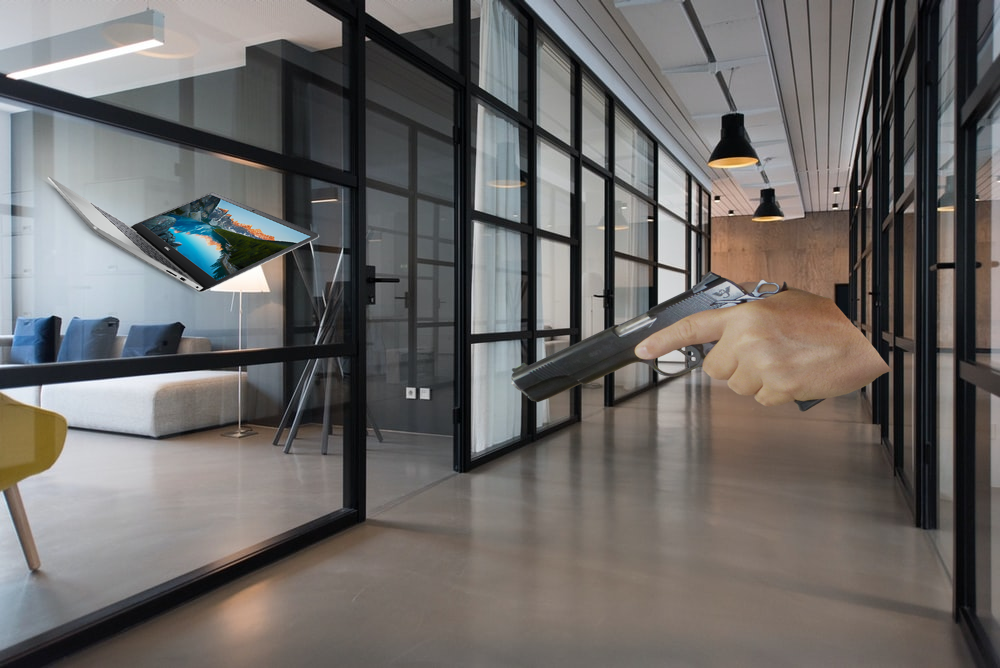
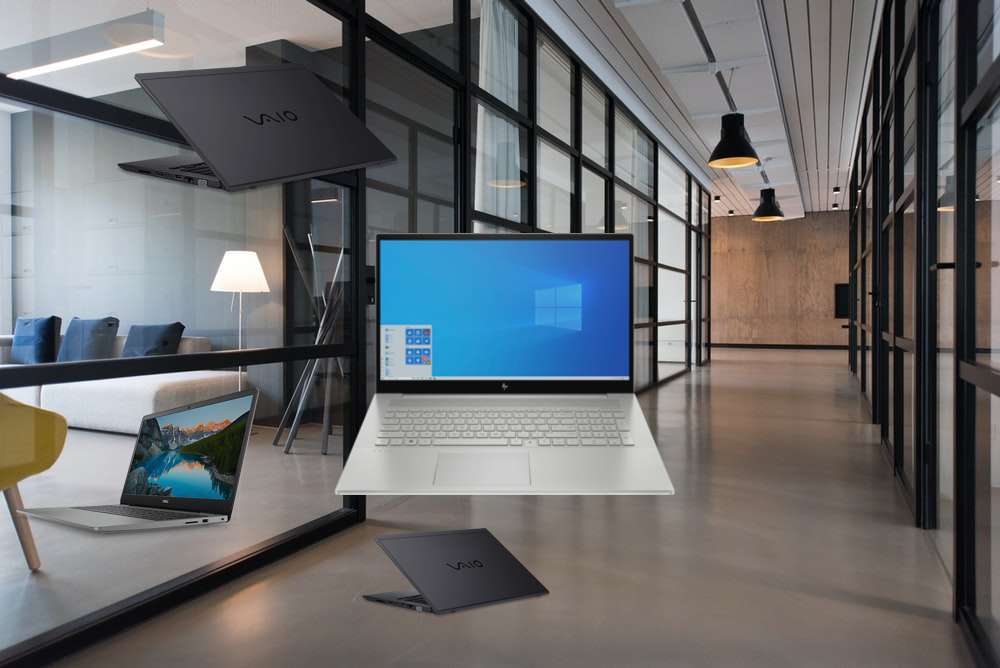
bounding box support

diff --git a/index.py b/index.py
@@ -5,12 +5,14 @@ import os
 import PIL
 from PIL import Image, ImageDraw, ImageFilter, ImageEnhance
 import xml.etree.ElementTree as gfg
+import xmltodict, json
 import random
 from rectangles import *
 # import rectangles
 
 bg_dir = os.path.join( os.getcwd(), "backgrounds" )
 cl_dir = os.path.join( os.getcwd(), "objects" ) 
+
 
 # config
 config = {
@@ -19,14 +21,14 @@ config = {
     "scale_min": 0.20, # smallest percentage of obj
     "scale_max": 0.50, # largest percentage of obj
 
-    "rotate_min": -45, # min rotation
-    "rotate_max": 45, # max rotation
+    "rotate_min": 0, # min rotation
+    "rotate_max": 0, # max rotation
     
-    "flip_hor": True, # if it will randomly flip horizontally
+    "flip_hor": False, # if it will randomly flip horizontally
     "flip_ver": False, # if it will randomly flip veritcally
 
     "per_class_min": 1, # min number per class
-    "per_class_max": 3, # max number per class
+    "per_class_max": 100, # max number per class (so high to deal with overlap errors)
     
     "contrast_min": 80, # min contrast
     "contrast_max": 100, # max contrast ( 100 is orginal )
@@ -80,7 +82,10 @@ for background_img in os.listdir( bg_dir ):
 
                     for interation in range( 0, random.randint( config[ "per_class_min" ], config[ "per_class_max" ] ) ):
 
-                        foreground = Image.open( os.path.join( cl_dir, class_dir, random.choice( os.listdir( os.path.join( cl_dir, class_dir )  ) ) ) )
+                        file = random.choice( os.listdir( os.path.join( cl_dir, class_dir, "annotations" ) ) );
+                        file = json.loads( json.dumps( xmltodict.parse( gfg.tostring( gfg.parse( os.path.join( cl_dir, class_dir, "annotations", file ) ).getroot() ) ) ) )[ "annotation" ]
+
+                        foreground = Image.open( os.path.join( cl_dir, class_dir, "images", file[ "filename" ] ) )
 
                         if config[ "flip_hor" ] and random.randint( 0,1 ) == 1:
                             foreground = foreground.transpose(PIL.Image.FLIP_LEFT_RIGHT)
@@ -118,19 +123,26 @@ for background_img in os.listdir( bg_dir ):
                         object_name = gfg.SubElement( object_, "name" ) 
                         object_name.text = class_dir
 
-                        object_bdnbox = gfg.SubElement( object_, "bdnbox" ) 
+                        object_bndbox = gfg.SubElement( object_, "bndbox" ) 
 
-                        object_bdnbox_xmin = gfg.SubElement( object_bdnbox, "xmin" ) 
-                        object_bdnbox_xmin.text = str( x )
+                        # print(   )
 
-                        object_bdnbox_ymin = gfg.SubElement( object_bdnbox, "ymin" ) 
-                        object_bdnbox_ymin.text = str( y )
+                        x_min_change = int( int( file[ "object" ][ "bndbox" ][ "xmin" ] ) * ( width / int( file[ "size" ][ "width" ] ) ) );
+                        x_max_change = int( int( file[ "object" ][ "bndbox" ][ "xmax" ] ) * ( width / int( file[ "size" ][ "width" ] ) ) );
+                        y_min_change = int( int( file[ "object" ][ "bndbox" ][ "ymin" ] ) * ( height / int( file[ "size" ][ "height" ] ) ) );
+                        y_max_change = int( int( file[ "object" ][ "bndbox" ][ "ymax" ] ) * ( height / int( file[ "size" ][ "height" ] ) ) );
 
-                        object_bdnbox_xmax = gfg.SubElement( object_bdnbox, "xmax" ) 
-                        object_bdnbox_xmax.text = str( x + width )
+                        object_bndbox_xmin = gfg.SubElement( object_bndbox, "xmin" ) 
+                        object_bndbox_xmin.text = str( x + x_min_change )
 
-                        object_bdnbox_ymax = gfg.SubElement( object_bdnbox, "ymax" ) 
-                        object_bdnbox_ymax.text = str( y + height )
+                        object_bndbox_ymin = gfg.SubElement( object_bndbox, "ymin" ) 
+                        object_bndbox_ymin.text = str( y + y_min_change )
+
+                        object_bndbox_xmax = gfg.SubElement( object_bndbox, "xmax" ) 
+                        object_bndbox_xmax.text = str( x + x_max_change )
+
+                        object_bndbox_ymax = gfg.SubElement( object_bndbox, "ymax" ) 
+                        object_bndbox_ymax.text = str( y + y_max_change )
 
                         root.append ( object_ );
 

diff --git a/preview.py b/preview.py
@@ -1,0 +1,35 @@
+# Sellers Industry 2020
+# Aris Defense Project - Sythetic Image Generator
+
+import os
+import xml.etree.ElementTree as ET
+import xmltodict, json
+from PIL import Image, ImageFont, ImageDraw, ImageEnhance
+
+
+
+directory = os.path.join( os.getcwd(), "output" );
+images_dir = os.path.join( directory, "images" );
+annotations_dir = os.path.join( directory, "annotations" );
+output_dir = os.path.join( directory, "preview" );
+outlineColor = "red"
+
+
+for annotation in os.listdir( annotations_dir ):
+    file = json.loads( json.dumps( xmltodict.parse( ET.tostring( ET.parse( os.path.join( annotations_dir, annotation ) ).getroot() ) ) ) )[ "annotation" ];
+
+    bbox = [];
+    source_img = Image.open( os.path.join( images_dir, file[ "filename" ] ) ).convert("RGBA");
+
+    if isinstance( file[ "object" ], list ):
+        bbox = file[ "object" ]
+    else:
+        bbox.append( file[ "object" ] )
+
+    for bounding in range( 0, len( bbox ) ):
+        draw = ImageDraw.Draw(source_img)
+        draw.rectangle( ( int( bbox[ bounding ][ "bndbox" ][ "xmin" ] ), int( bbox[ bounding ][ "bndbox" ][ "ymin" ] ), int( bbox[ bounding ][ "bndbox" ][ "xmax" ] ), int( bbox[ bounding ][ "bndbox" ][ "ymax" ] ) ), outline=outlineColor)
+        draw.text((int( bbox[ bounding ][ "bndbox" ][ "xmin" ] ), int( bbox[ bounding ][ "bndbox" ][ "ymin" ] )), bbox[ bounding ][ "name" ] )
+
+
+    source_img.save( os.path.join( output_dir, file[ "filename" ] ), "PNG" );

diff --git a/readme.md b/readme.md
@@ -3,15 +3,34 @@
 
 This project was created to help create a sythetic dataset for the Aris Defense Weapon Detection System. This sythetic dataset creator will take images with no background and place many ontop background images. You can use either JPG or PNG for the background images. However, the object classes must be PNG, if you want them to be placed properly. You also need these images to have no background. Using object images with background have not purpose. There are a bunch of config options placed in python file, these help config how you want to create each image.
 
-The folder structure is simple. A `backgrounds` folder which contains the backgrounds that will be used, each of these will only be used onced. There is then an `objects` directory, inside this directory you will place another folder with PNG images it in. For examples, lets say we want to add a gun class, create a folder `objects/gun` and place gun images (PNG) in that folder.
+The folder structure is simple. A `backgrounds` folder which contains the backgrounds that will be used, each of these will only be used onced. There is then an `objects` directory, inside this directory you will place another folder with PNG images it in. For examples, lets say we want to add a laptop class, create a folder `objects/laptop`, there is then a `objects/laptop/annotations` folder which you place the annotations in and an `objects/laptop/images` where laptop images (PNG) in that folder. You can use [ Make Sense AI ](makesense.ai) to create the annoations.
 
 The output model in the Tensorflow format, with an `output/images` which contains all the images created and will have a `output/annotations` folder with all the xml annotations.
 
 All these directories must be created, this means you need an `output/images`, `output/annotations`, and the other already created or the build will fail.
 
-![Example Sythetic](example.png)
+Doesn't support multiple bounding per object. You may only have one bounding box per annoation in the object file.
+
+![Example Sythetic](example1.png)
+
+<br>
+<br>
+
+## Preview System
+New preview feature which allows you to preview what a annotation looks like. This will take an `images` and an `annotations` directory and generate a `preview` directory with images and bounding boxes drawn over the objects.
+
+By default it will grab from the `output` directory. So you must make a folder called `output/preview` and the images will be placed here. You can edit the directories in the `preview.py` python file.
+
+![Example Preview](example2.png)
+
+<br>
+<br>
+
+### Updates
+- **(8/18/20)** Added preview feature allowing you to draw bounding boxes over annotations that were generated
 
 ### Fix Code
 - Very messy code, needs cleaned up
 - When placing objects save position and regenerate location if it overlaps
 - create own overlap calcutor and percentage of overlap, if it's less then 10%
+- fix rotation bounding box
